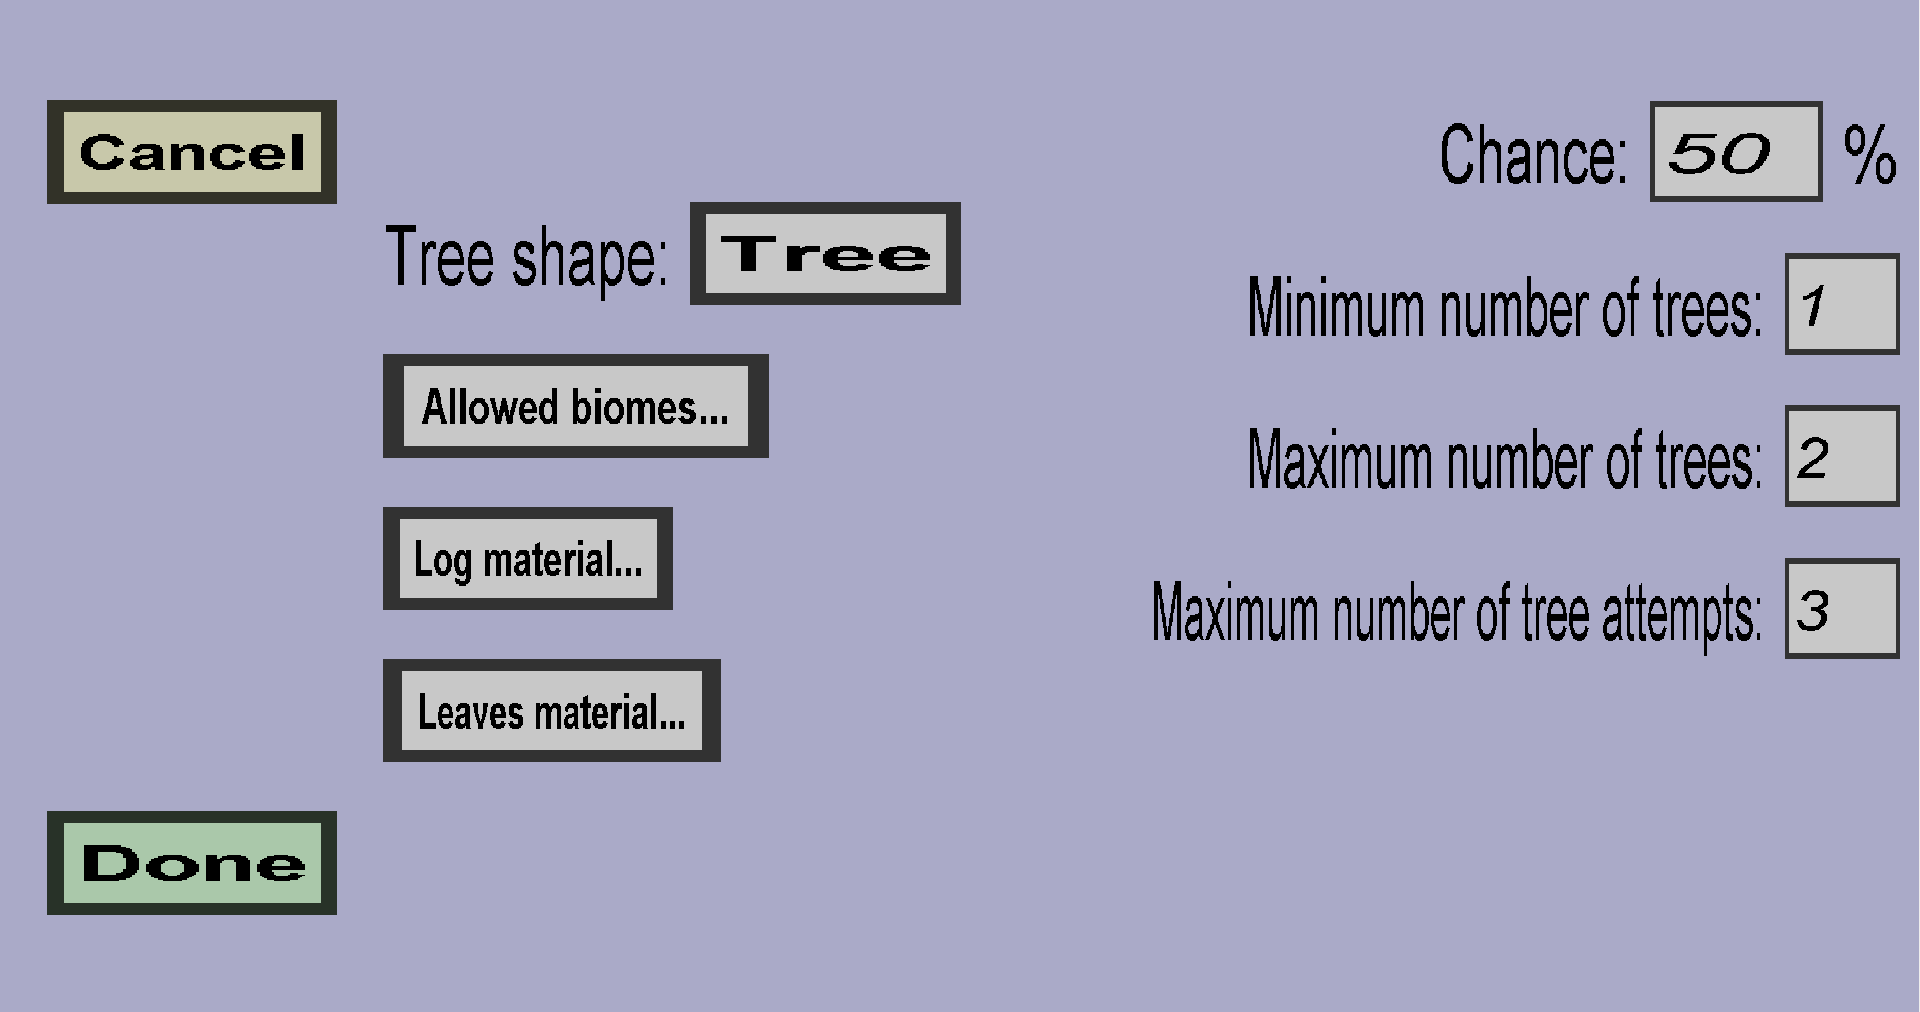
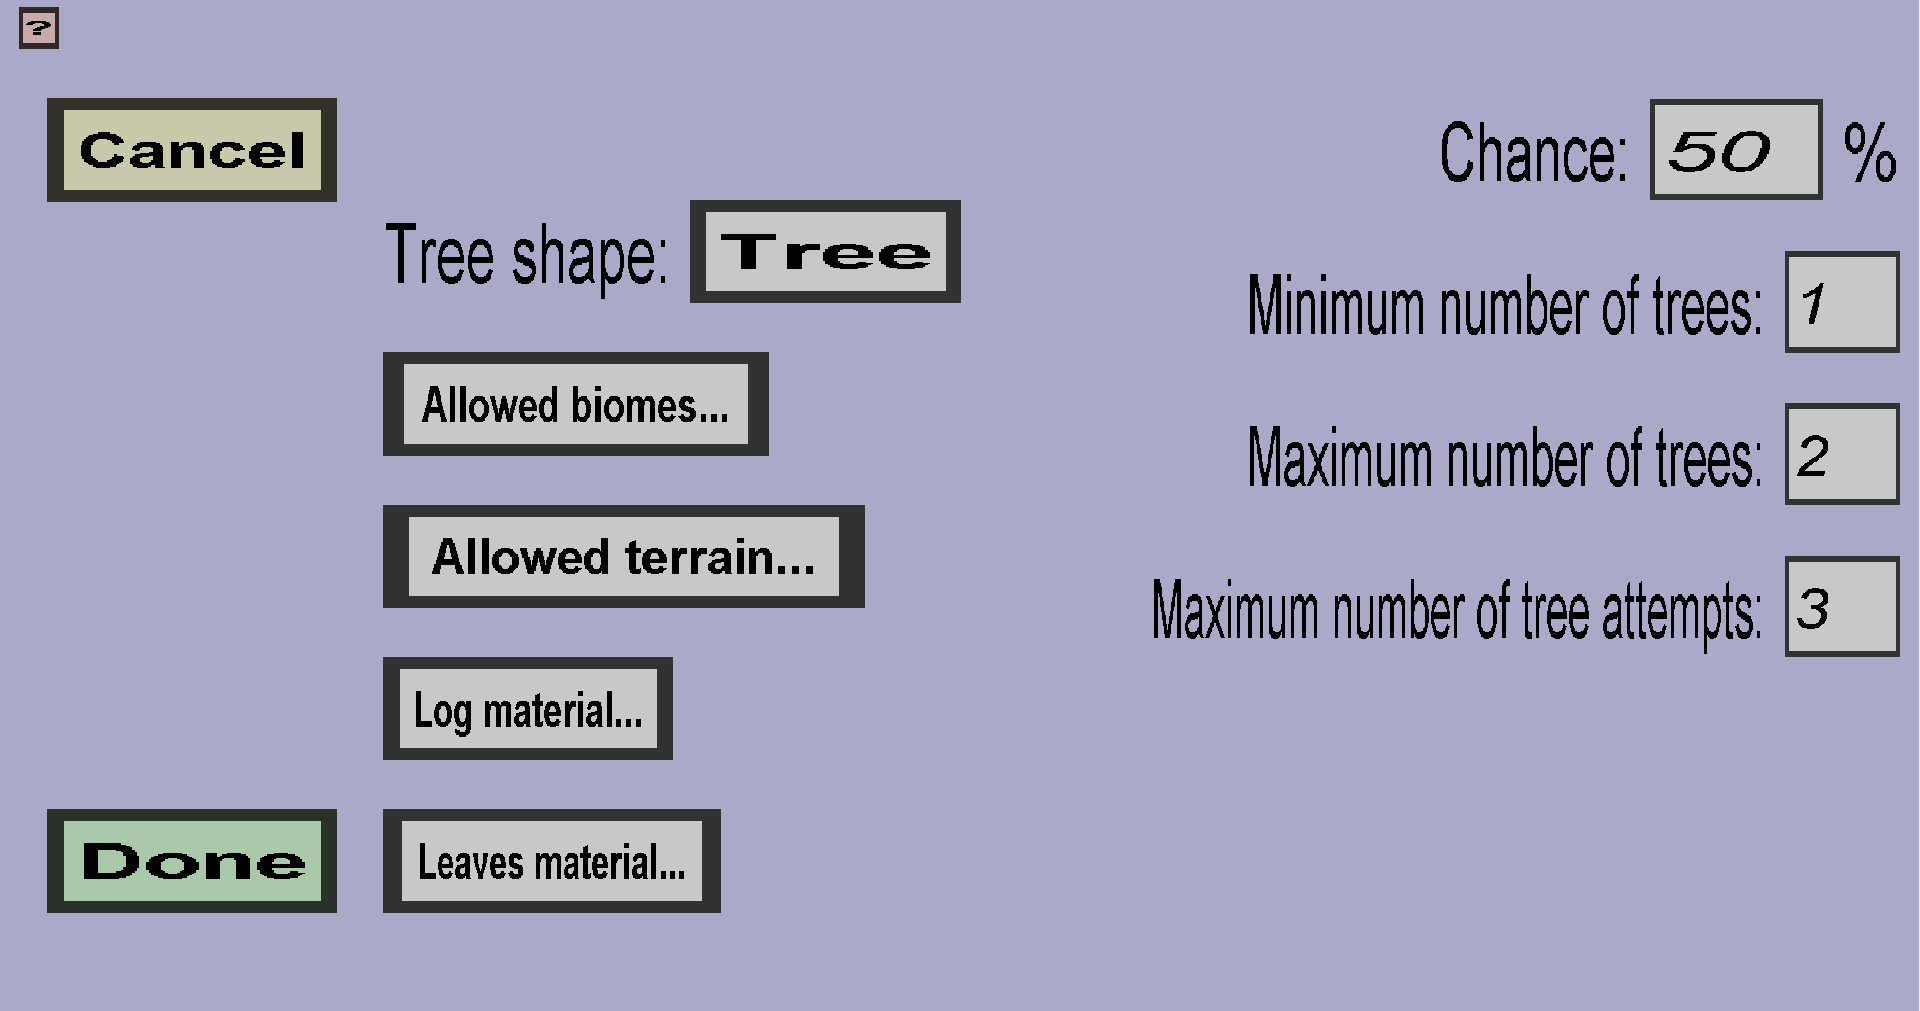
Document the allowed terrains of tree generators in KCI 11

diff --git a/custom items/editor documentation/edit menu/worldgen/tree/edit.html b/custom items/editor documentation/edit menu/worldgen/tree/edit.html
@@ -18,14 +18,23 @@
         </p>
         <h3>Tree shape</h3>
         <p>
-            The tree shape determines the shape of the tree, as well as on which blocks the tree can be
-            spawned (most tree shapes can only be spawned on grass or dirt).
+            The tree shape determines the shape of the tree. In minecraft 1.17 and earlier, it also determines on which 
+            blocks the tree can be spawned (most tree shapes can only be spawned on grass or dirt).
         </p>
         <h3>Allowed biomes</h3>
         <p>
             The biomes in which the tree can be spawned. Note: the plug-in only ensures that the <i>log</i> of the
             tree will be in one of the allowed biomes, but the leaves may be placed in another biome if the log is
             very close to another biome.
+        </p>
+        <h3>Allowed terrain</h3>
+        <p>
+            The blocks on which the tree can be spawned. Note 1: when using a tree whose log is wider than 1 block,
+            only 1 of the root log blocks needs to be above allowed terrain. Note 2: in minecraft 1.17 and earlier,
+            Spigot will ensure that trees can <b>not</b> be spawned on unnatural terrain (for instance, they won't
+            grow on stone or water). Including stone or water in the allowed terrain will <b>not</b> change this.
+            In minecraft 1.18 and later, Spigot is much less strict and even allows you to spawn trees on top of the
+            ocean (at least, if you add <i>Water</i> to the allowed terrain).
         </p>
         <h3>Log material</h3>
         <p>

diff --git a/custom items/editor documentation/edit menu/worldgen/ore/replace blocks.html b/custom items/editor documentation/edit menu/worldgen/ore/replace blocks.html
@@ -7,13 +7,20 @@
     <body>
         <p>
             The replace blocks menu can be used to configure which block(s) can be replaced by a (custom) ore vein
-            generator. It should look like this:
+            generator. It can also be used to configure on which block(s) custom trees can grow. It should look like this:
         </p>
         <img src="replace blocks.png" width="50%" />
+        You can select both vanilla blocks and custom blocks.
+        <h2>Replacing blocks</h2>
         <p>
-            You can select both vanilla blocks and custom blocks. Each of the blocks you add here can be replaced
+            When configuring the replacable blocks of a custom ore vein, each of the blocks you add here can be replaced
             by an ore block of the ore vein generator. In most cases, you should only choose <i>Stone</i>, but
             you are free to choose any block(s) you want.
+        </p>
+        <h2>Allowed tree terrain</h2>
+        <p>
+            When you are configuring the terrain on which a custom tree can grow, the trees can grow on any of the
+            blocks you select here. For regular trees, you should usually choose just <i>Dirt</i> and <i>Grass block</i>.
         </p>
     </body>
 </html>

diff --git a/custom items/editor documentation/edit menu/worldgen/index.html b/custom items/editor documentation/edit menu/worldgen/index.html
@@ -12,7 +12,12 @@
         <img src="index.png" width="50%" />
         <p>
             Currently, this plug-in only supports <a href="tree/overview.html">tree generators</a> 
-            and <a href="ore/overview.html">ore vein generators</a>. If you want more advanced world generation,
+            and <a href="ore/overview.html">ore vein generators</a>. Because Spigot reworked the custom tree mechanics
+            in minecraft 1.13, custom trees are only supported in minecraft 1.13 and later. Except that minecraft 1.16
+            is not supported because Spigot introduced a bug in 1.16 and fixed it in 1.17.
+        </p>
+        <p>
+            If you want more advanced world generation,
             you can check out <a href="https://www.spigotmc.org/resources/terra.85151/">Terra</a>. Note: you can
             find instructions for working with custom blocks 
             <a href="https://github.com/PolyhedralDev/TerraWiki/wiki/Custom-Blocks">here</a> (although this is the
